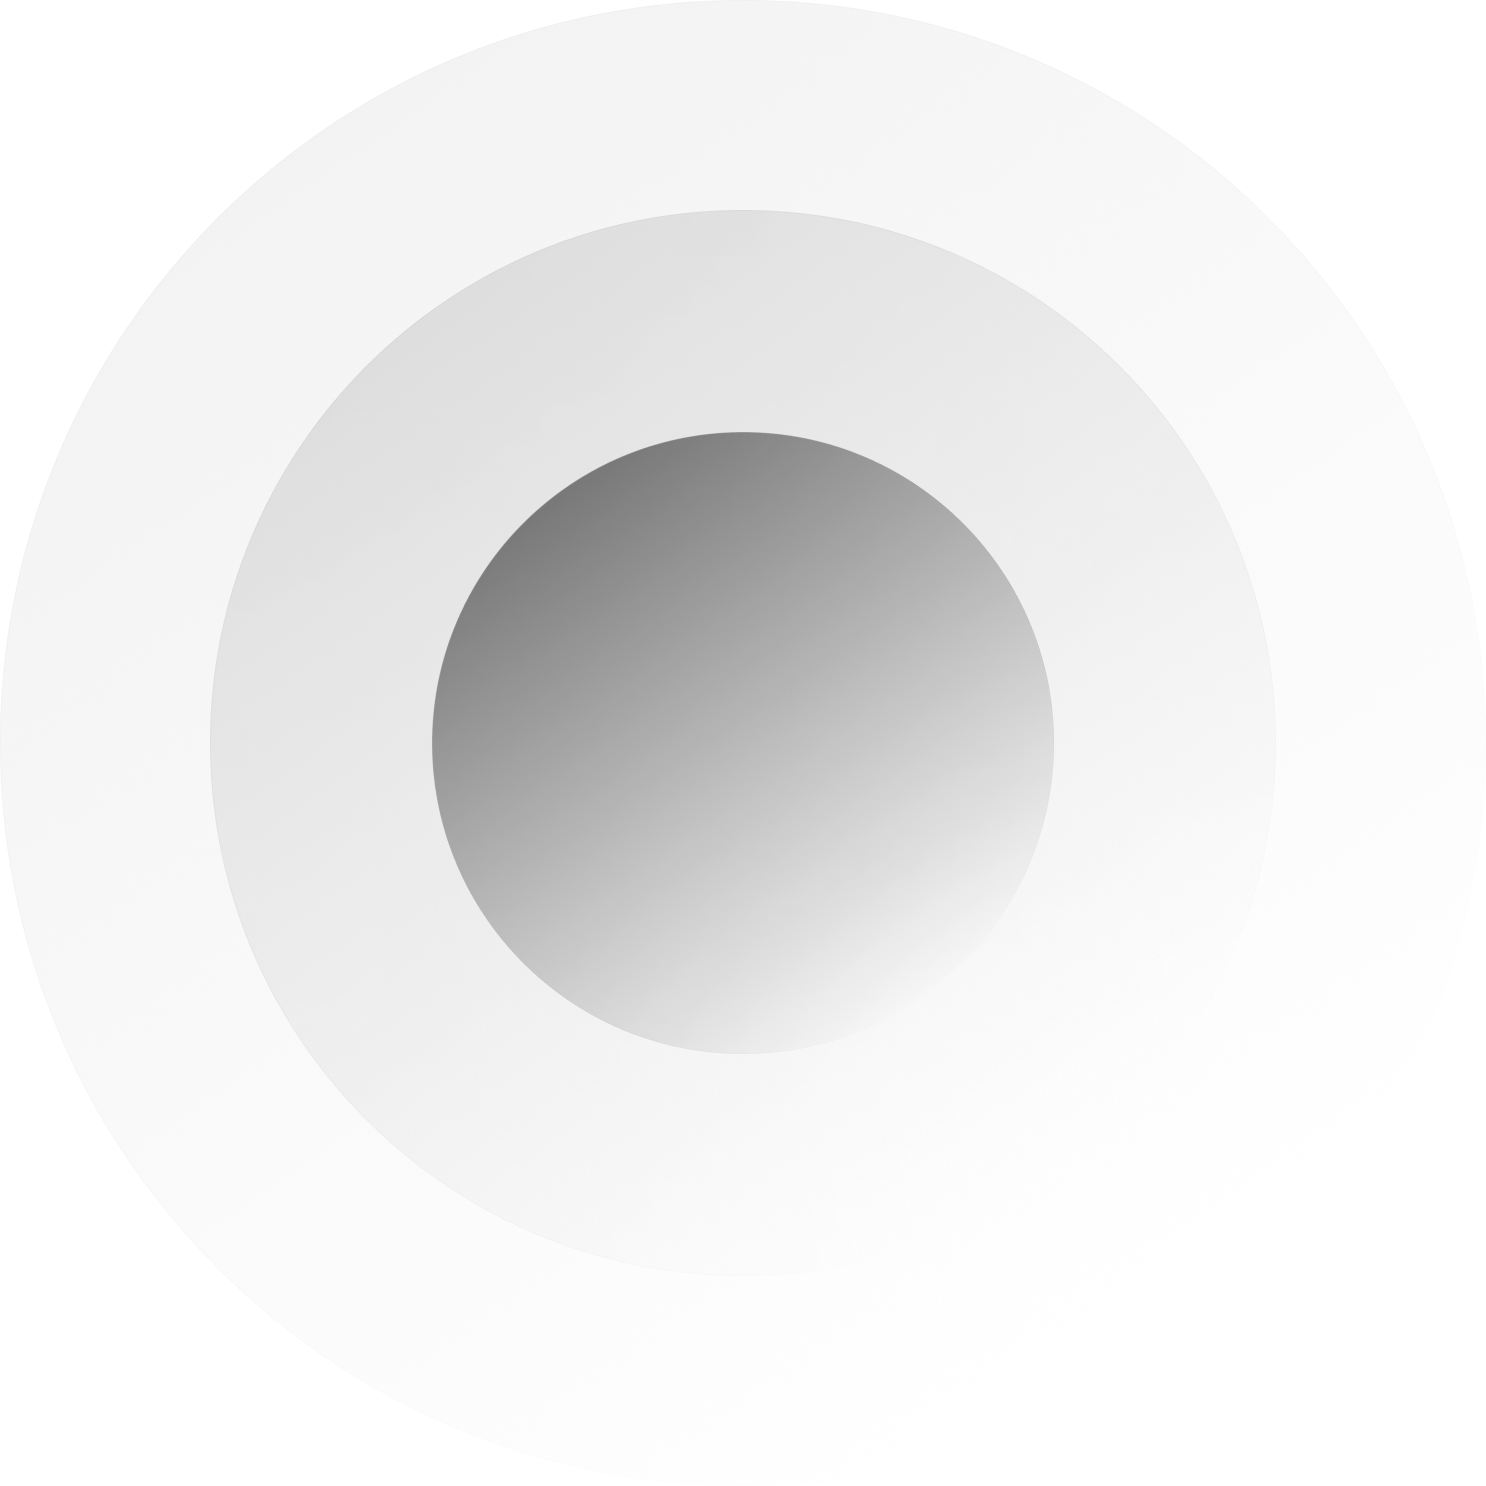
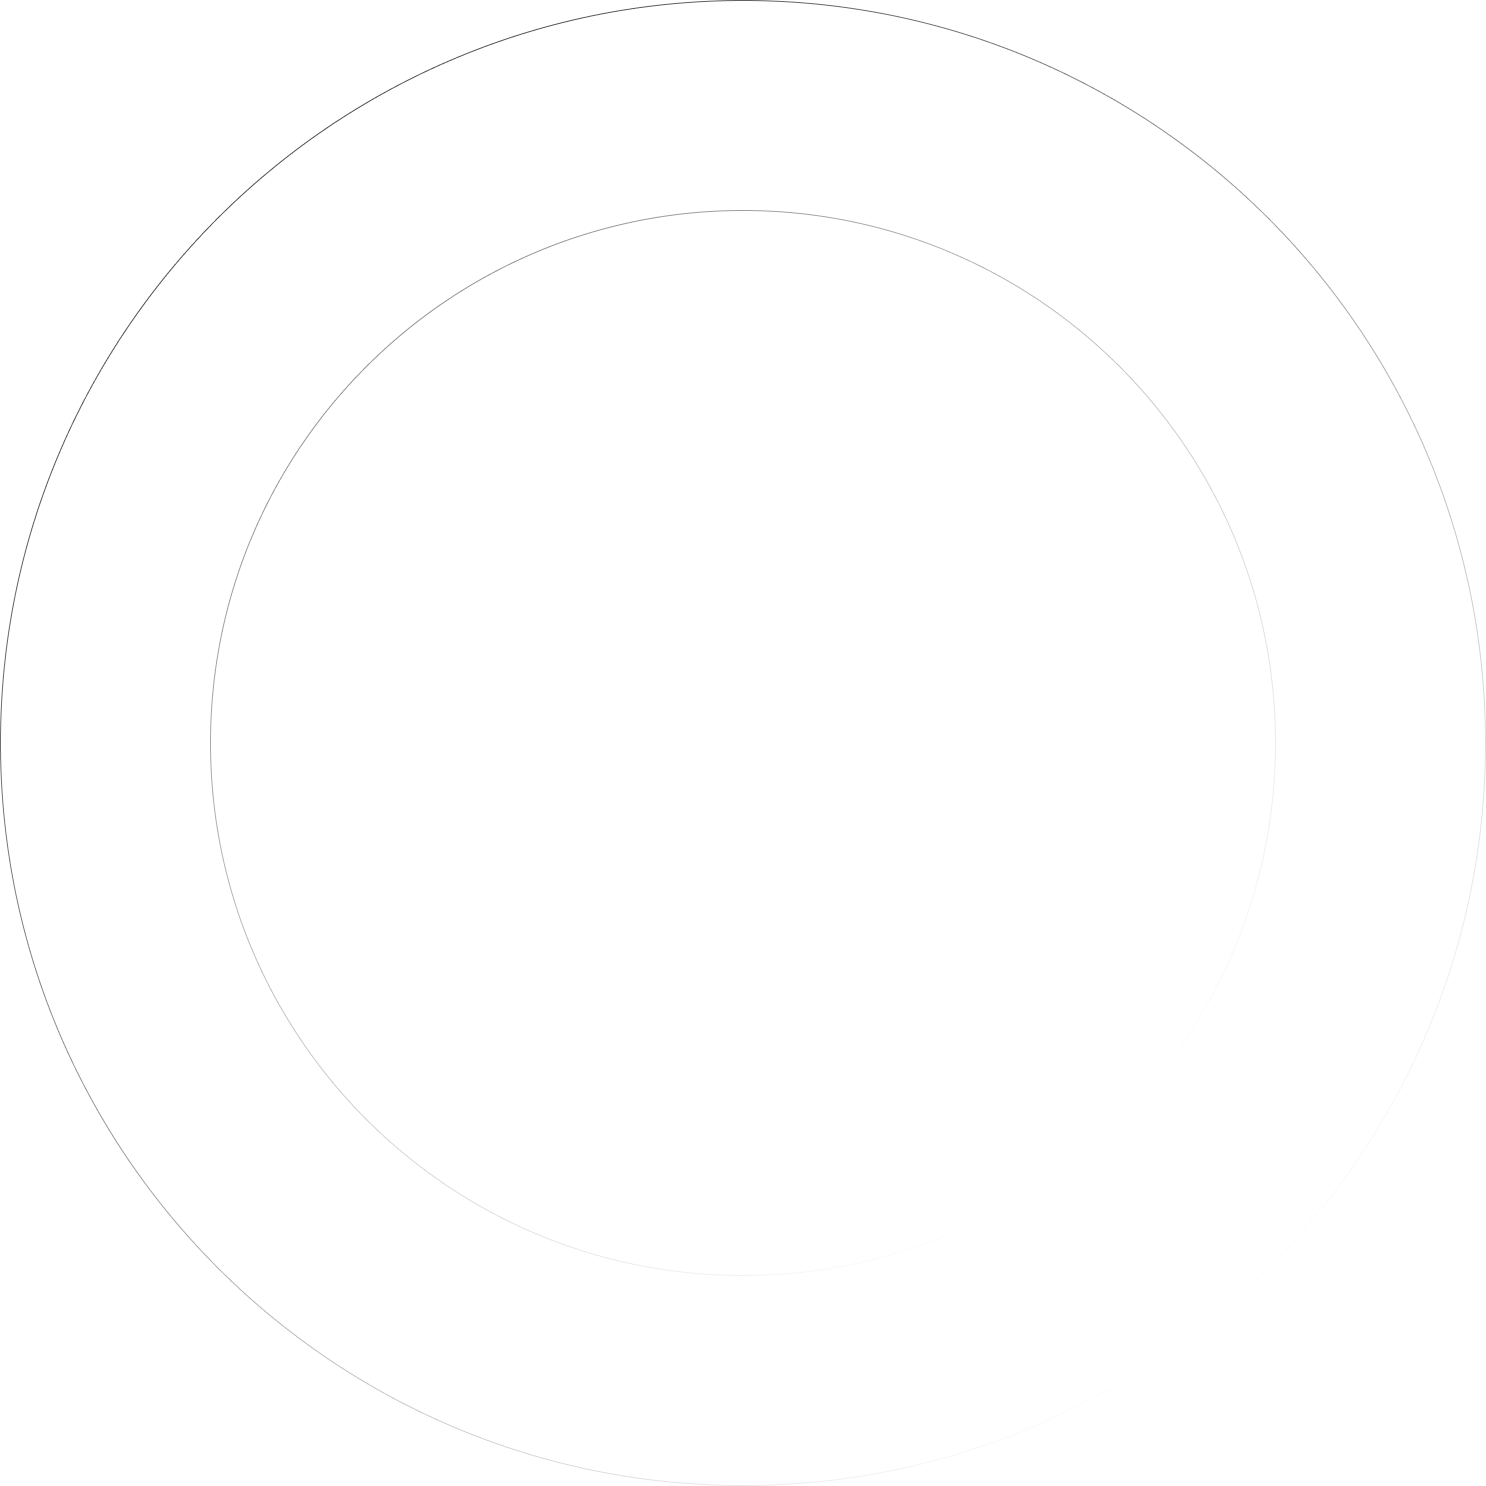
Correct Circles

Changed region(s): [[0.1238, 0.1238, 0.712, 0.712]]

diff --git a/components/Landing/TierSection.tsx b/components/Landing/TierSection.tsx
@@ -3,7 +3,7 @@ import TierCard from './TierCard';
 
 export default function TierSection() {
   return (
-    <section className="tier-section flex h-[180vh] w-screen flex-col items-center pt-32 relative">
+    <section className="tier-section flex h-[200vh] w-screen flex-col items-center pt-32 relative noisy">
       <div className="flex flex-col items-center gap-4 z-10">
         <span className="text-center text-5xl font-medium text-[#ededed]">
           Increase your earnings through participation
@@ -38,10 +38,19 @@ export default function TierSection() {
         />
       </div>
       <Image
+        src="/static/images/grain.png"
+        width={3000}
+        height={3000}
+        quality={100}
+        className="absolute inset-0 w-full h-full object-cover z-[1] opacity-80"
+        alt=""
+        priority={true}
+      />
+      <Image
         src="/static/images/overlappingCircles.png"
         width={2000}
         height={2000}
-        className="absolute top-1/2 -translate-y-1/2 left-1/2 -translate-x-1/2"
+        className="mt-[10%] absolute w-[60%] top-1/2 -translate-y-1/2 left-1/2 -translate-x-1/2 opacity-40 z-0"
         alt=""
       />
     </section>

diff --git a/styles/globals.css b/styles/globals.css
@@ -73,30 +73,3 @@ html {
 img {
   user-select: none;
 }
-
-.big-circle {
-  background: linear-gradient(
-    145.25deg,
-    rgba(13, 13, 13, 0.05) 14.8%,
-    rgba(46, 46, 46, 0) 86.15%
-  );
-  backdrop-filter: blur(78px);
-}
-
-.medium-circle {
-  background: linear-gradient(
-    145.25deg,
-    rgba(13, 13, 13, 0.1) 14.8%,
-    rgba(46, 46, 46, 0) 86.15%
-  );
-  backdrop-filter: blur(78px);
-}
-
-.small-circle {
-  background: linear-gradient(
-    145.25deg,
-    rgba(13, 13, 13, 0.5) 14.8%,
-    rgba(46, 46, 46, 0) 86.15%
-  );
-  backdrop-filter: blur(78px);
-}
